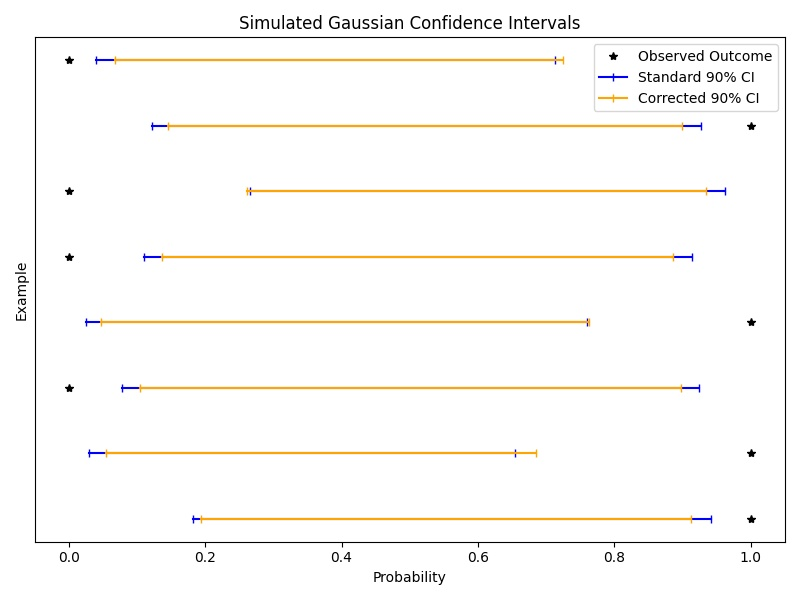
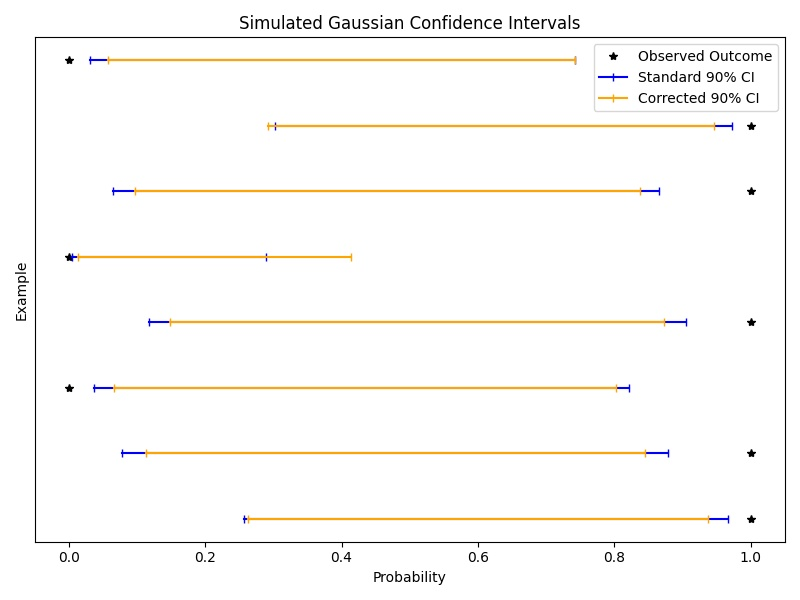
normalize normalizing flow output

diff --git a/helpers/simulation.py b/helpers/simulation.py
@@ -2,6 +2,7 @@ import torch
 import numpy as np
 from torch.distributions.multivariate_normal import MultivariateNormal
 from sklearn.model_selection import train_test_split
+from sklearn.preprocessing import StandardScaler
 
 ## Data Generating Process #################################################
 # The data generating process is parameterized by gamma, ratio, n
@@ -46,5 +47,10 @@ def normalizing_flow(X_train, X_test):
         X_train_flow[row,:] = X_train[row,:] + u * torch.sigmoid(w.dot(X_train[row,:]) + b)
     for row in range(n_test):
         X_test_flow[row,:] = X_test[row,:] + u * torch.sigmoid(w.dot(X_test[row,:]) + b)
+
+    # Normalize data
+    scaler = StandardScaler()
+    X_train_flow = torch.from_numpy(scaler.fit_transform(X_train_flow.numpy()))
+    X_test_flow = torch.from_numpy(scaler.fit_transform(X_test_flow.numpy()))
 
     return X_train_flow, X_test_flow

diff --git a/run_experiments.py b/run_experiments.py
@@ -12,7 +12,7 @@ torch.manual_seed(1)
 ratio = 0.2    # p/n
 # p  = Number of features
 # n = Number of samples
-n = 1000
+n = 3000
 p = int(ratio*n)
 gamma = np.sqrt(5)
 
@@ -23,6 +23,8 @@ print("TEST 1: Simulated Gaussian data")
 
 # Simulate Gaussian data
 X_train, X_test, y_train, y_test = simulate_gaussian(ratio, n, p, gamma)
+#y_train = torch.round(torch.rand(y_train.shape[0]))
+#y_test = torch.round(torch.rand(y_test.shape[0]))
 
 # Test with baseline model
 p_vals_baseline, pred_ints_baseline = test_baseline(X_train.numpy(), y_train.numpy(), X_test.numpy(), ci=ci)
